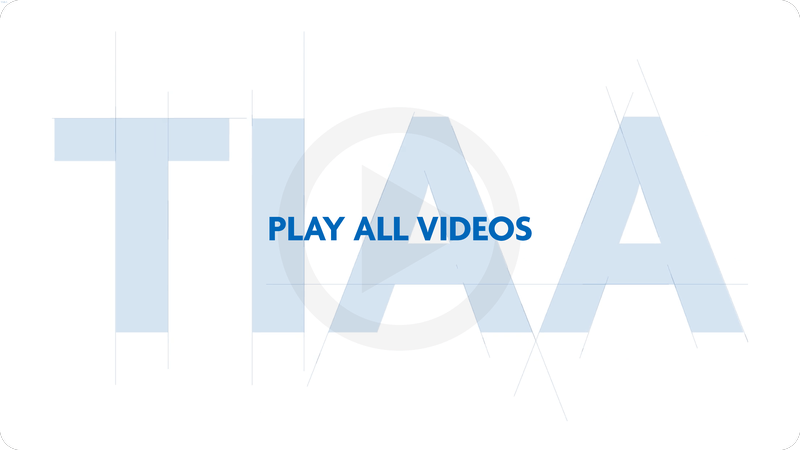
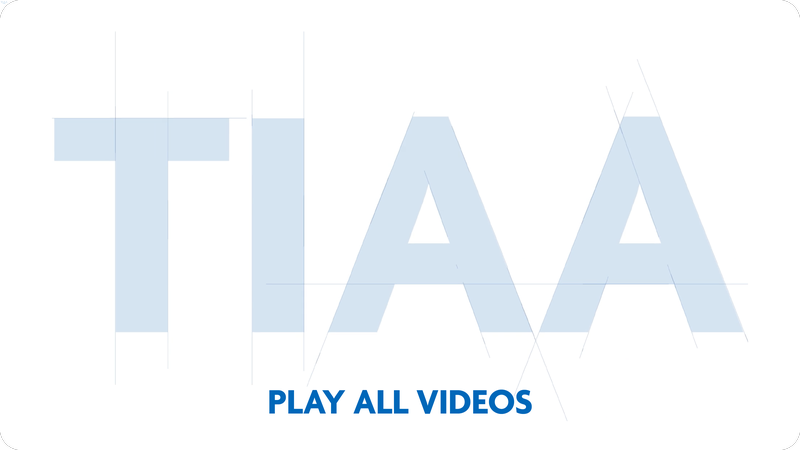
make it look good on 3840x2160

Changed region(s): [[0.3125, 0.4667, 0.6875, 0.56], [0.3125, 0.84, 0.6875, 0.9333]]

diff --git a/js/index.js b/js/index.js
@@ -43,7 +43,7 @@ const addThumbnails = () => {
       thumbSrc: "TIAA_0-Forum2023-LOOP_DEL_01083623_RND.png",
       thumbVideoSrc: "TIAA_6-Awards_v01_DEL.mp4",
       title: "TIAA Accolades",
-      desc: "TIAA has been recognized as a game-changer and leader in the retirement industry.",
+      desc: "TIAA has been recognized as a game-changer and leader in the retirement industry",
     },
   ];
 
@@ -76,8 +76,6 @@ const addThumbnails = () => {
 
     if (thumbsVideo) thumbsVideo.appendChild(ul);
   }
-
-  
 };
 
 // *
@@ -87,13 +85,16 @@ FWDR3DCovUtils.onReady(function () {
   addThumbnails();
 
   new FWDR3DCov({
-    // Main.
+    // * Main.
+
+    // Carousel size
+    coverflowWidth: 3840, // ! Important
+    coverflowOffsetHeight: 220, // ! Important
+
     instanceName: "fwdr3dcov0",
     coverflowHolderDivId: "myDiv",
     coverflowDataListDivId: "coverflowData",
     displayType: "responsive",
-    coverflowWidth: 990,
-    coverflowOffsetHeight: 120,
     thumbnailResizeOffest: 60,
     zIndex: 0,
     mainFolderPath: "coverflow/start/content",
@@ -112,9 +113,12 @@ FWDR3DCovUtils.onReady(function () {
     backgroundImageSize: "auto",
     preloaderBackgroundColor: "#333333",
     preloaderFillColor: "#FFFFFF",
-    // Thumbnails.
-    thumbnailWidth: 400,
-    thumbnailHeight: 262.64,
+
+    // * Thumbnails
+    // Thumbnail size
+    thumbnailWidth: 1400, // ! Important
+    thumbnailHeight: 787.5, // ! Important
+
     thumbnailXOffset3D: 100,
     thumbnailXSpace3D: 97,
     thumbnailZOffset3D: 200,

diff --git a/css/styles.css b/css/styles.css
@@ -23,7 +23,6 @@
 }
 
 body {
-    /* background: #003865; */
     cursor: auto;
     height: 100vh;
     display: flex;
@@ -61,6 +60,9 @@ body {
     width: 100%;
     height: 100%;
     max-height: 120px;
+    max-width: 1420px;
+    transform: scale(2.5);
+    margin-top: 5rem;
 }
 
 .header ul {
@@ -76,7 +78,6 @@ body {
 .header li {
     list-style: none;
     font-size: 1.5rem;
-    /* margin: 17px 0 0; */
 }
 
 .logo {
@@ -87,8 +88,10 @@ body {
     font-size: 4.5rem;
     font-family: agendaBold;
     font-weight: bold;
-    margin: 6.25rem 0 -5.8rem;
     text-align: center;
+    transform: scale(2.45);
+    margin-top: 20rem;
+    margin-bottom: 2rem;
 }
 
 
@@ -108,18 +111,32 @@ body {
 
 .fwdr3dcov-caption .fwdr3dcov-title {
     font-family: agendaBold;
-    font-size: 1.68rem;
+    font-size: 1.8rem;
     margin-top: 38.5px !important;
 }
 
 .fwdr3dcov-caption.out .fwdr3dcov-title+.fwdr3dcov-desc {
     font-family: agendaLight;
     font-style: normal;
-    font-size: 1.23rem;
+    font-size: 1.5rem;
     margin-top: 8px !important;
-    line-height: 1.48rem;
+    line-height: 1.8rem;
 }
 
 .EVPLargePlayButtonNormalState {
     border-radius: 50px;
+}
+
+.fwdr3dcov-caption {
+   transform: translate3d(0, 0, 0) scale(2.5) !important;
+   margin-top: 10rem!important;
+}
+
+.fwdr3dcov-caption.out {
+    max-width: 700px !important;
+    height: 260px;
+}
+
+.fwdr3dcov-image, .fwdr3dcov-thumbnail-background {
+    border-radius: 2.5rem!important;
 }

diff --git a/coverflow/start/java/FWDR3DCov-unminified.js b/coverflow/start/java/FWDR3DCov-unminified.js
@@ -7395,7 +7395,7 @@
                 }else{
                     var y = Math.round(_s.dumyThumbDO.getRect().top - prt.mainDO.getGlobalY() + _s.dumyThumbDO.getRect().height);
                     _s.textHolderDO.setY(y);
-                    _s.textHolderDO.setHeight(300);
+                    _s.textHolderDO.setHeight(500);
                 }
             }
         }

diff --git a/index.html b/index.html
@@ -19,7 +19,7 @@
 
     <script
       type="text/javascript"
-      src="coverflow/start/java/FWDR3DCov.js"
+      src="coverflow/start/java/FWDR3DCov-unminified.js"
     ></script>
     <script src="js/index.js" type="text/javascript"></script>
   </head>

diff --git a/coverflow/start/content/global.css b/coverflow/start/content/global.css
@@ -33,7 +33,7 @@
 }
 
 .fwdr3dcov-caption .fwdr3dcov-title{
-	font: 700 18px Roboto, Arial;
+	font: 700 120x Roboto, Arial;
 	line-height: 21px;
 	transform: translateZ(0);
 	backface-visibility: hidden;
